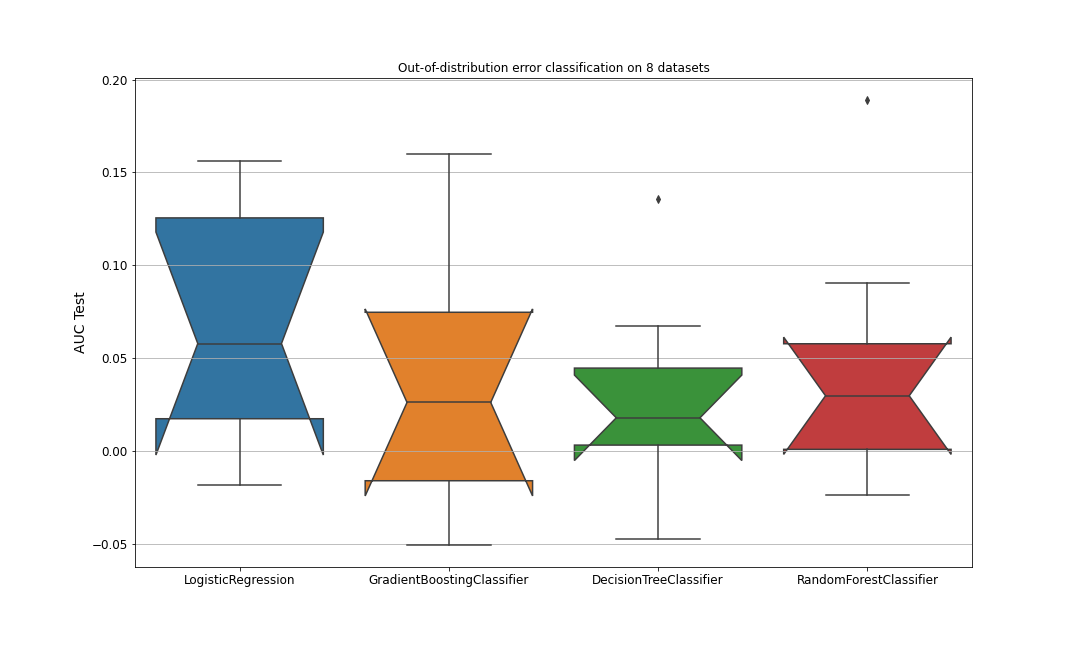
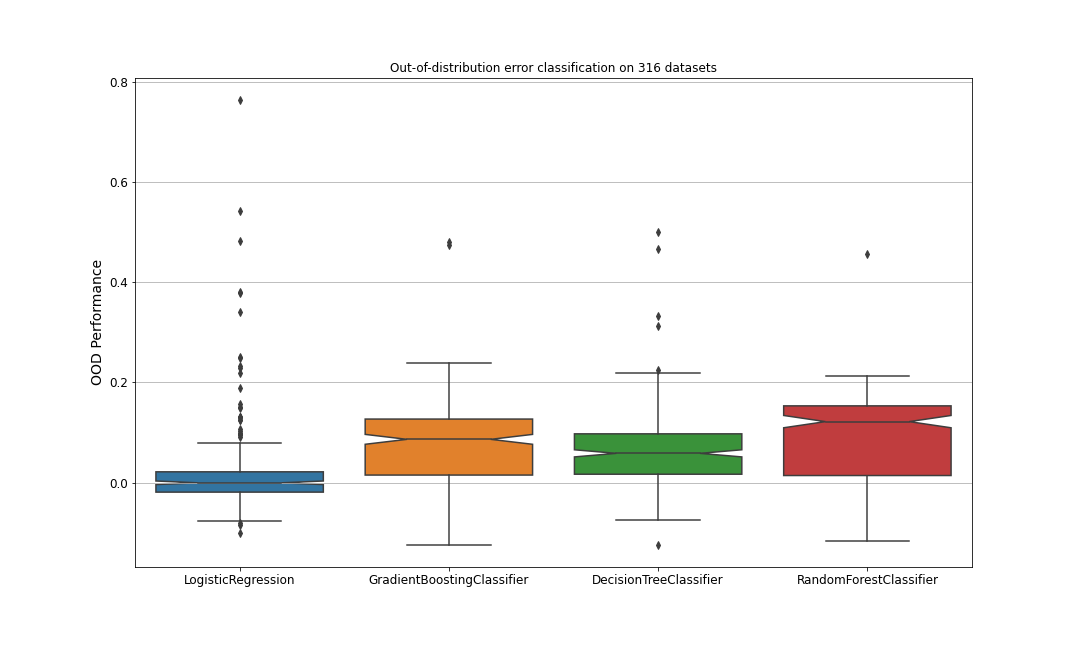
separation data and column --bug

diff --git a/analysis_clas.py b/analysis_clas.py
@@ -5,33 +5,41 @@ import seaborn as sns
 import matplotlib.pyplot as plt
 
 from matplotlib import rcParams
-#sns.set_style(style="whitegrid")
-#plt.style.use('seaborn-whitegrid')
-rcParams['axes.labelsize'] = 14
-rcParams['xtick.labelsize'] = 12
-rcParams['ytick.labelsize'] = 12
-rcParams['figure.figsize'] = 16,8
+
+# sns.set_style(style="whitegrid")
+# plt.style.use('seaborn-whitegrid')
+rcParams["axes.labelsize"] = 14
+rcParams["xtick.labelsize"] = 12
+rcParams["ytick.labelsize"] = 12
+rcParams["figure.figsize"] = 16, 8
 
 files = os.listdir("results")
 files
 # %%
 df = pd.DataFrame()
 for file in files:
-    if 'clas' in file:
-        aux = pd.read_csv(os.path.join('results',file),index_col=0)
+    if "clas" in file:
+        aux = pd.read_csv(os.path.join("results", file), index_col=0)
         df = df.append(aux)
-# %%
-df.groupby('model').mean()
-df
-# %%
 
-plt.figure(figsize=(15, 9))
-plt.title('Out-of-distribution error classification on {} datasets'.format(df.groupby('model')['trainError'].count()[0]))
-sns.boxplot(data=df, x='model', y='oodPerformance', notch=True)
-plt.grid(True, axis='y')
-plt.ylabel('AUC Test')
-plt.xlabel('')
-plt.savefig('images/classOODperf.png')
+df = df.reset_index()
+split = df["index"].str.split("_column_", expand=True)
+df = df.assign(data=split[0], column=split[1])
+
+df = df.drop(columns="index")
+
 # %%
-df
+df.groupby("model").mean()
+# %%
+plt.figure(figsize=(15, 9))
+plt.title(
+    "Out-of-distribution error classification on {} datasets".format(
+        df["data"].nunique()
+    )
+)
+sns.boxplot(data=df, x="model", y="oodPerformance", notch=True)
+plt.grid(True, axis="y")
+plt.ylabel("OOD Performance")
+plt.xlabel("")
+plt.savefig("images/classOODperf.png")
 # %%

diff --git a/benchmark.py b/benchmark.py
@@ -120,7 +120,8 @@ def benchmark_experiment(datasets: list, model, classification: bool = False):
                 # Append Results
                 model_name = str(type(model)).split(".")[-1]
                 model_name = re.sub("[^A-Za-z0-9]+", "", model_name)
-                results[dataset] = [
+                name = dataset + "_column_" + col
+                results[name] = [
                     train_error,
                     test_error,
                     ood_error,
